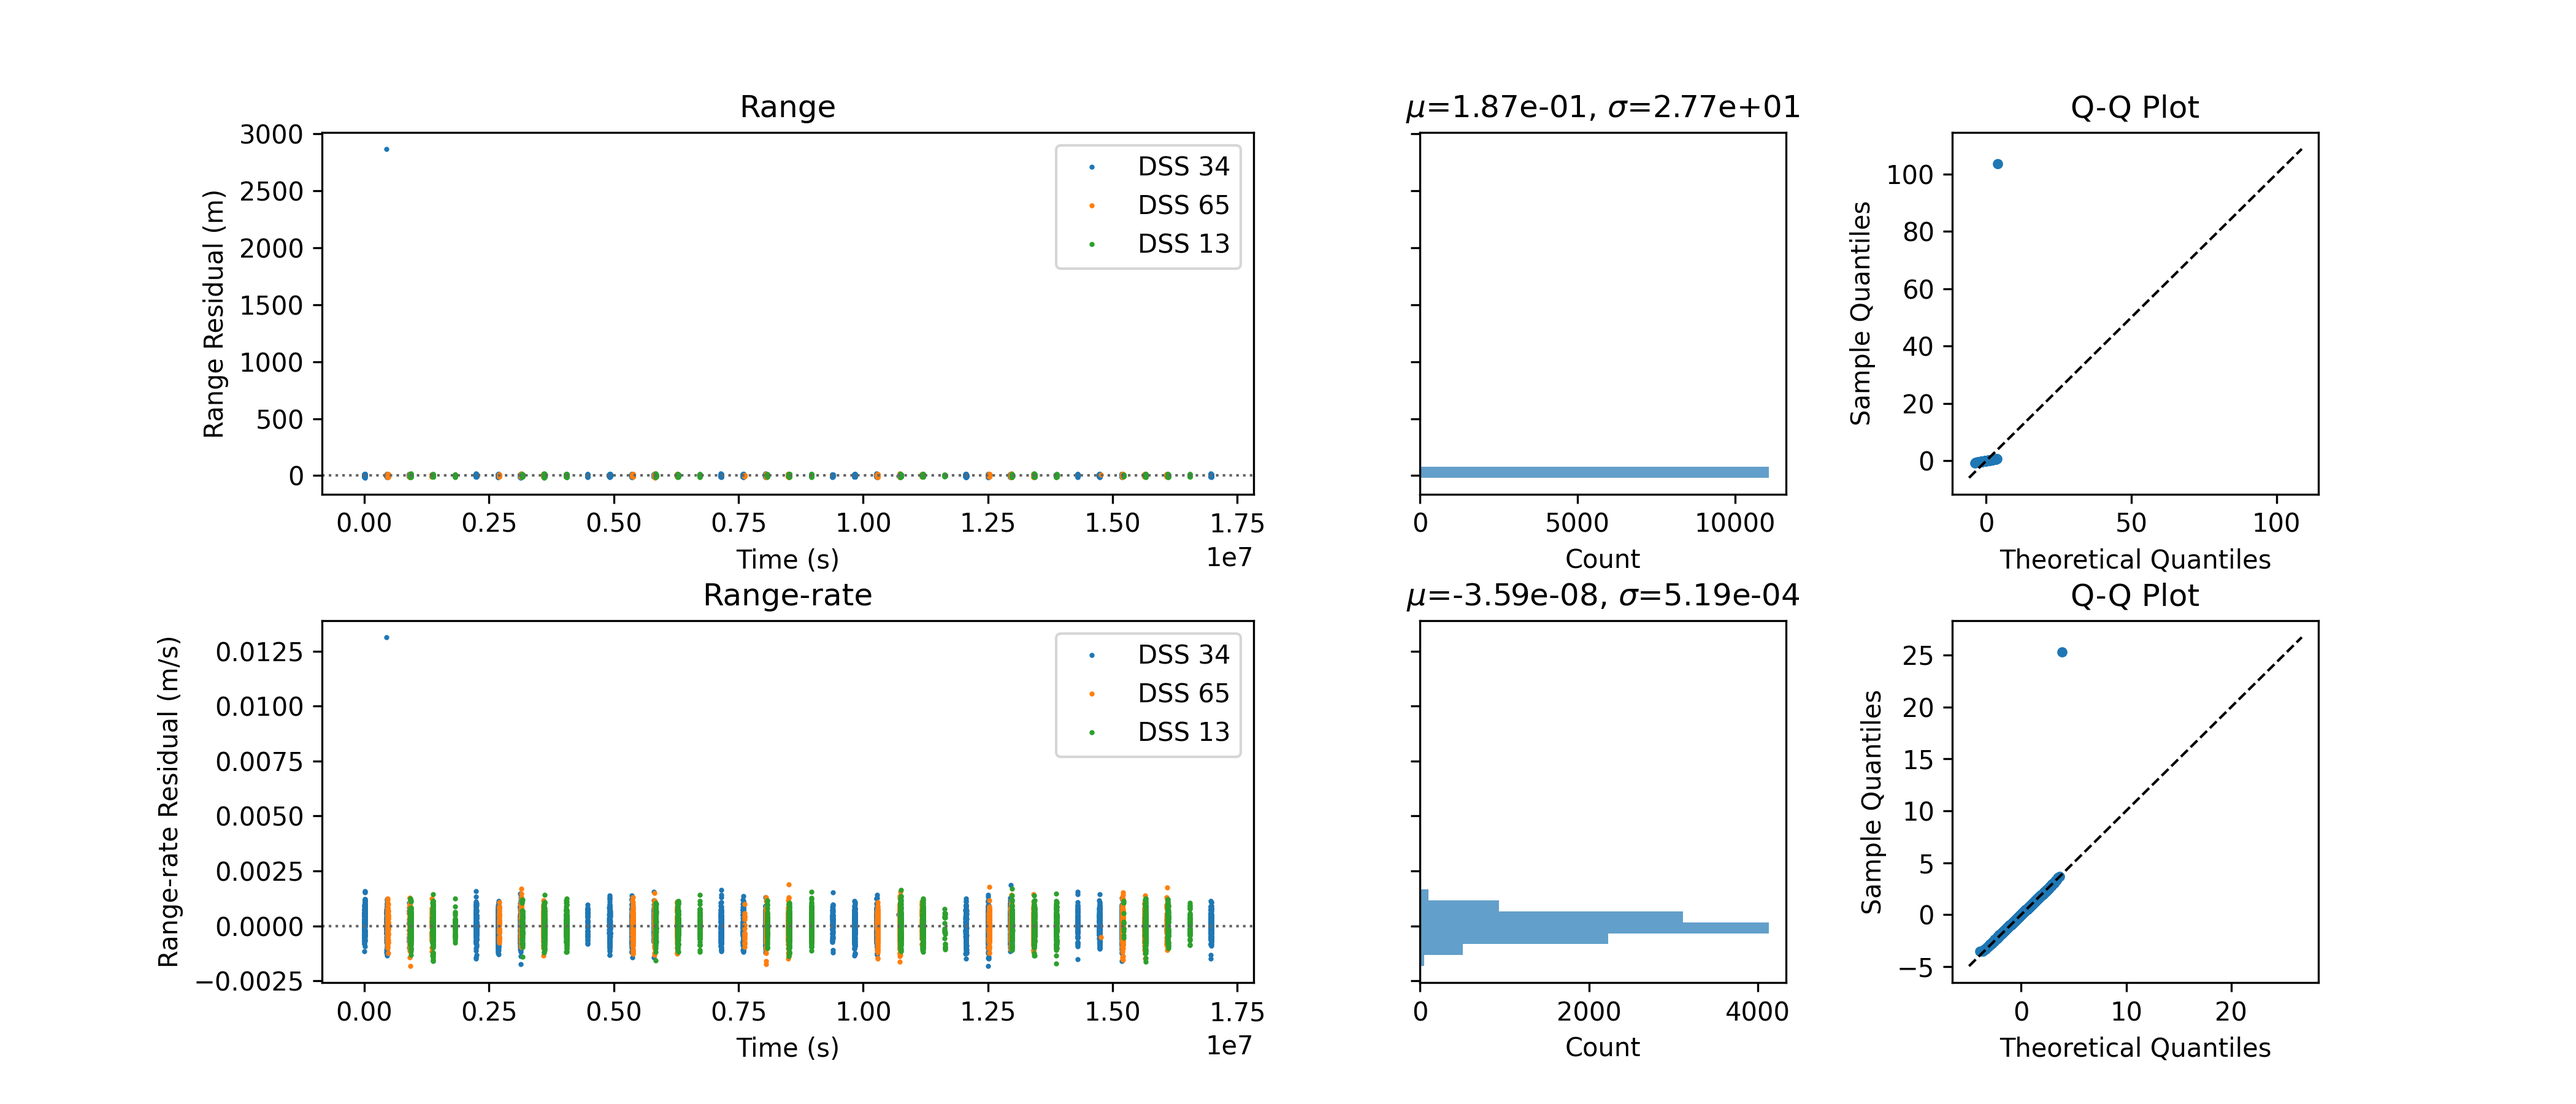
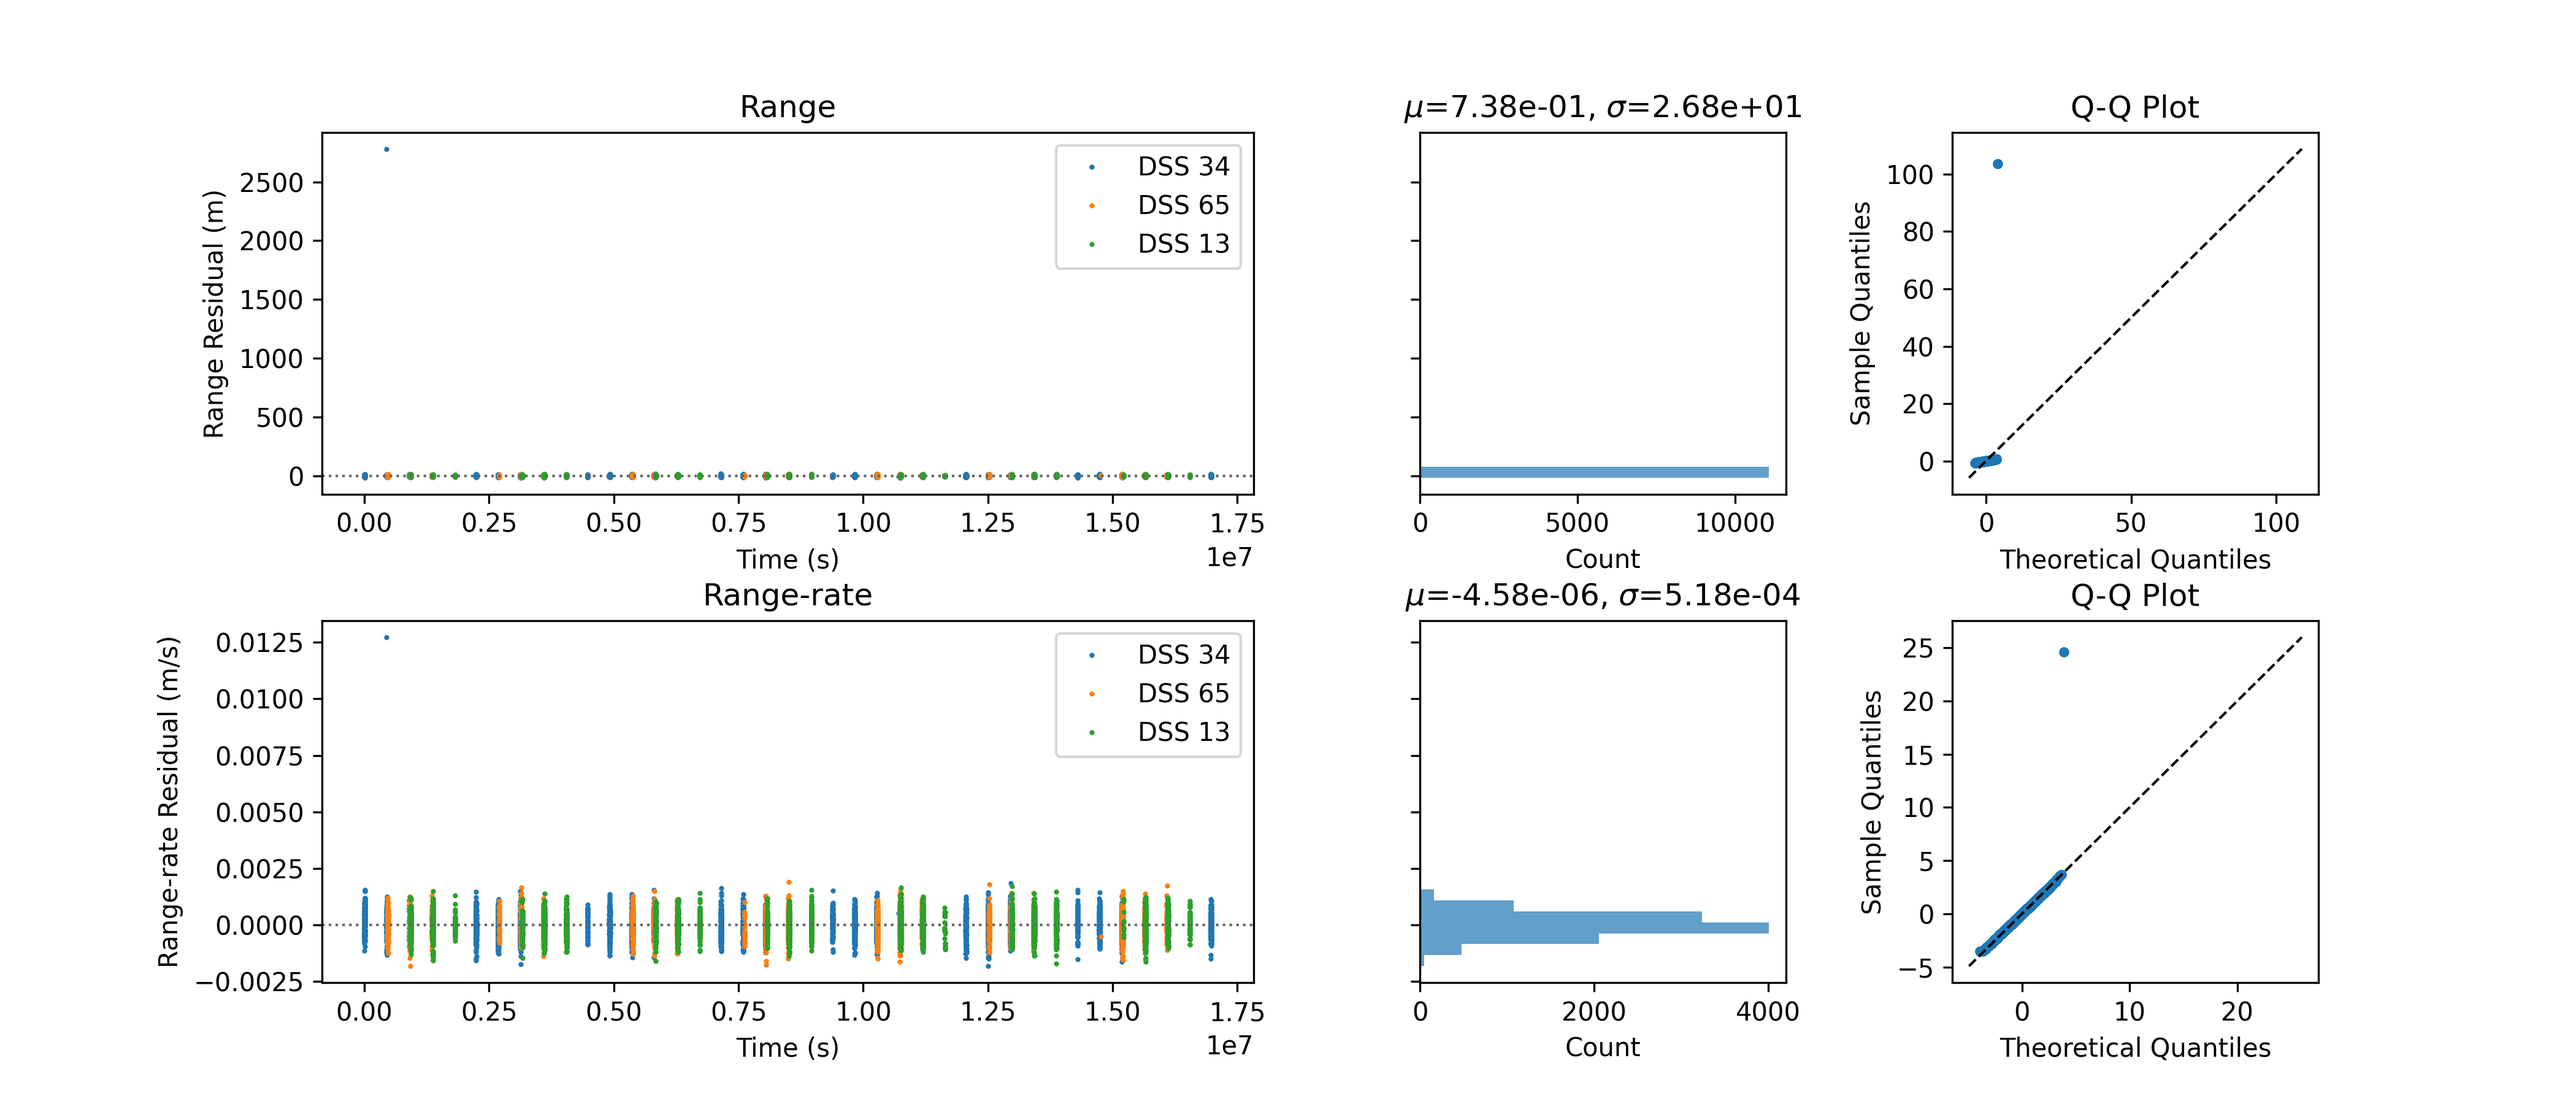
Tuning UKF for truth model

diff --git a/Homework/Proj2/tests.py b/Homework/Proj2/tests.py
@@ -444,6 +444,125 @@ def make_cr_3sigma_plot(out: dict, outdir: Path):
     fig.savefig(outdir / "cr_estimate_3sigma_envelope.png", dpi=300, bbox_inches="tight")
     plt.close(fig)
 
+
+def propagate_snapshot_to_3soi_with_stm(
+    *,
+    x_arc: np.ndarray,
+    P_arc: np.ndarray,
+    t_arc: float,
+    t_search_days: float = 400.0,
+):
+    """
+    Propagate a 7-state estimate/covariance from arc-time to 3*RSOI crossing.
+    Returns (t_3soi, x_3soi, P_3soi).
+    """
+    y0 = np.hstack((np.asarray(x_arc, dtype=float).reshape(7), np.eye(7).reshape(-1)))
+
+    soi_event = lambda tau, y: SOIcheck(tau, y[:7])
+    soi_event.terminal = True
+    soi_event.direction = -1.0
+
+    sol = solve_ivp(
+        fun=lambda tau, y: mu_sun_srp_stm_deriv(
+            t=tau,
+            XPhi=y,
+            pConst=pConst,
+            scConst=scConst,
+            earth_state_func=earth_state_func,
+            sun_state_func=sun_state_func,
+        ),
+        t_span=(float(t_arc), float(t_arc) + float(t_search_days) * 86400.0),
+        y0=y0,
+        events=soi_event,
+        rtol=1.0e-9,
+        atol=1.0e-9,
+        method="RK45",
+        max_step=3600.0,
+    )
+
+    if (not sol.success) or (len(sol.t_events[0]) == 0):
+        raise RuntimeError(f"3*RSOI crossing not found from arc at t={t_arc:.3f} s.")
+
+    t_3soi = float(sol.t_events[0][0])
+    y_3soi = np.asarray(sol.y_events[0][0], dtype=float)
+    x_3soi = y_3soi[:7]
+    Phi_arc_to_3soi = y_3soi[7:].reshape(7, 7)
+    P_3soi = Phi_arc_to_3soi @ np.asarray(P_arc, dtype=float) @ Phi_arc_to_3soi.T
+
+    return t_3soi, x_3soi, P_3soi
+
+
+def _ellipse_points_from_cov(cov2: np.ndarray, n_sigma: float = 3.0, n_pts: int = 500):
+    cov = np.asarray(cov2, dtype=float).reshape(2, 2)
+    vals, vecs = np.linalg.eigh(cov)
+    vals = np.maximum(vals, 0.0)
+    radii = float(n_sigma) * np.sqrt(vals)
+
+    th = np.linspace(0.0, 2.0 * np.pi, int(n_pts))
+    circ = np.vstack((np.cos(th), np.sin(th)))
+    xy = vecs @ np.diag(radii) @ circ
+    return xy[0, :], xy[1, :]
+
+
+def make_bplane_arc_overlay_plot(records: list[dict], outdir: Path):
+    """
+    Plot B-plane estimate and 3-sigma covariance ellipse for each arc.
+    Axis convention matches assignment-style figure: x=T, y=R.
+    """
+    outdir.mkdir(parents=True, exist_ok=True)
+    colors = ["r", "g", "b", "k"]
+
+    fig, ax = plt.subplots(figsize=(9, 7))
+    ax.grid(True, alpha=0.3)
+    ax.set_aspect("equal", adjustable="box")
+    ax.set_xlabel("T [km]")
+    ax.set_ylabel("R [km]")
+    ax.set_title("B-Plane Target Estimate and 3 Sigma Uncertainty by Arc Length")
+
+    for i, rec in enumerate(records):
+        col = colors[i % len(colors)]
+        cov_tr = np.asarray(rec["cov_tr"], dtype=float)
+        ex, ey = _ellipse_points_from_cov(cov_tr, n_sigma=3.0, n_pts=500)  # x=T, y=R
+
+        Bt = float(rec["BdotT_km"])
+        Br = float(rec["BdotR_km"])
+        day = float(rec["day_selected"])
+
+        ax.plot(
+            Bt + ex,
+            Br + ey,
+            "-",
+            color=col,
+            linewidth=1.5,
+            label=f"3 Sigma Ellipse, Arc {i+1} (~{day:.1f} Days)",
+        )
+        ax.plot(
+            Bt,
+            Br,
+            "x",
+            color=col,
+            markersize=8,
+            linewidth=2.0,
+            label=f"Arc {i+1}: BdotT={Bt:.1f}, BdotR={Br:.1f} km",
+        )
+
+    BdotT_true = 9796.737
+    BdotR_true = 14970.824
+    ax.plot(
+        BdotT_true,
+        BdotR_true,
+        "p",
+        markersize=12,
+        markerfacecolor="y",
+        markeredgecolor="k",
+        label=f"True Target: BdotT={BdotT_true:.3f}, BdotR={BdotR_true:.3f} km",
+    )
+
+    ax.legend(loc="best")
+    fig.tight_layout()
+    fig.savefig(outdir / "bplane_3sigma_by_arc.png", dpi=300, bbox_inches="tight")
+    plt.close(fig)
+
 obs_2a_path = Path(__file__).resolve().parent / "Given_data" / "Project2a_Obs.txt"
 all_meas_2a = load_project2_obs_for_ukf(obs_2a_path)
 
@@ -490,7 +609,7 @@ ukf_2a = UnscentedKalmanFilter(
     J2=0.0,
     J3=0.0,
     Re=6378.1363,
-    alpha=1,
+    alpha=.075,
     beta=2.0,
     kappa=None,
     reltol=1.0e-10,
@@ -523,6 +642,98 @@ make_postfit_residuals_linear_plot(result_2a, final_plot_dir)
 
 make_all_state_3sigma_envelope_plot(out_ukf_2a, final_plot_dir)
 make_cr_3sigma_plot(out_ukf_2a, final_plot_dir)
+
+# Part (h): B-Plane 3-Sigma Ellipses At 50/100/150/200 Day Arcs
+arc_days_target = [50.0, 100.0, 150.0, 200.0]
+t_days_ukf = np.asarray(out_ukf_2a["t_meas"], dtype=float) / 86400.0
+xhat_ukf = np.asarray(out_ukf_2a["xhat_meas"], dtype=float)
+P_ukf = np.asarray(out_ukf_2a["P_meas"], dtype=float)
+
+bplane_records = []
+for d_target in arc_days_target:
+    idx = int(np.argmin(np.abs(t_days_ukf - float(d_target))))
+    x_arc = xhat_ukf[idx, :]
+    P_arc = P_ukf[idx, :, :]
+    t_arc = float(out_ukf_2a["t_meas"][idx])
+    d_sel = float(t_days_ukf[idx])
+
+    t_3soi_arc, x_3soi_arc, P_3soi_arc = propagate_snapshot_to_3soi_with_stm(
+        x_arc=x_arc,
+        P_arc=P_arc,
+        t_arc=t_arc,
+        t_search_days=400.0,
+    )
+
+    (
+        BdotR_arc,
+        BdotT_arc,
+        _sig_R,
+        _sig_T,
+        _sig_RT,
+        _X_cross,
+        P_Bplane_arc,
+        _STR2ECI,
+        _XPhi_BPlane,
+        _t_BPlane,
+    ) = calc_bplane(
+        XPhi_3SOI=x_3soi_arc,
+        t_3SOI=t_3soi_arc,
+        P_3SOI=P_3soi_arc,
+        pConst=pConst,
+        scConst=scConst,
+        earth_state_func=earth_state_func,
+        sun_state_func=sun_state_func,
+    )
+
+    # [T,R] covariance for assignment axis convention x=T, y=R
+    cov_tr = np.array(
+        [
+            [P_Bplane_arc[1, 1], P_Bplane_arc[1, 2]],
+            [P_Bplane_arc[1, 2], P_Bplane_arc[2, 2]],
+        ],
+        dtype=float,
+    )
+
+    bplane_records.append(
+        {
+            "day_target": float(d_target),
+            "day_selected": d_sel,
+            "idx": idx,
+            "t_arc_s": t_arc,
+            "t_3soi_s": float(t_3soi_arc),
+            "BdotT_km": float(BdotT_arc),
+            "BdotR_km": float(BdotR_arc),
+            "cov_tr": cov_tr,
+            "BdotT_error_km": float(BdotT_arc - 9796.737),
+            "BdotR_error_km": float(BdotR_arc - 14970.824),
+        }
+    )
+    print(
+        f"Arc Target {d_target:6.1f} Days (Selected {d_sel:7.2f}): "
+        f"BdotT={float(BdotT_arc):10.3f} km, "
+        f"BdotR={float(BdotR_arc):10.3f} km"
+    )
+
+make_bplane_arc_overlay_plot(bplane_records, final_plot_dir)
+
+bplane_summary_rows = []
+for rec in bplane_records:
+    bplane_summary_rows.append(
+        {
+            "day_target": rec["day_target"],
+            "day_selected": rec["day_selected"],
+            "BdotT_km": rec["BdotT_km"],
+            "BdotR_km": rec["BdotR_km"],
+            "BdotT_error_km": rec["BdotT_error_km"],
+            "BdotR_error_km": rec["BdotR_error_km"],
+            "sigma_T_km": float(np.sqrt(max(rec["cov_tr"][0, 0], 0.0))),
+            "sigma_R_km": float(np.sqrt(max(rec["cov_tr"][1, 1], 0.0))),
+        }
+    )
+
+pd.DataFrame(bplane_summary_rows).to_csv(final_plot_dir / "bplane_arc_summary.csv", index=False)
+print(f"Saved B-Plane Arc Summary: {final_plot_dir / 'bplane_arc_summary.csv'}")
+print(f"Saved B-Plane Arc Plot: {final_plot_dir / 'bplane_3sigma_by_arc.png'}")
 
 print(f"Saved Final Test Plots To: {final_plot_dir}")
 
